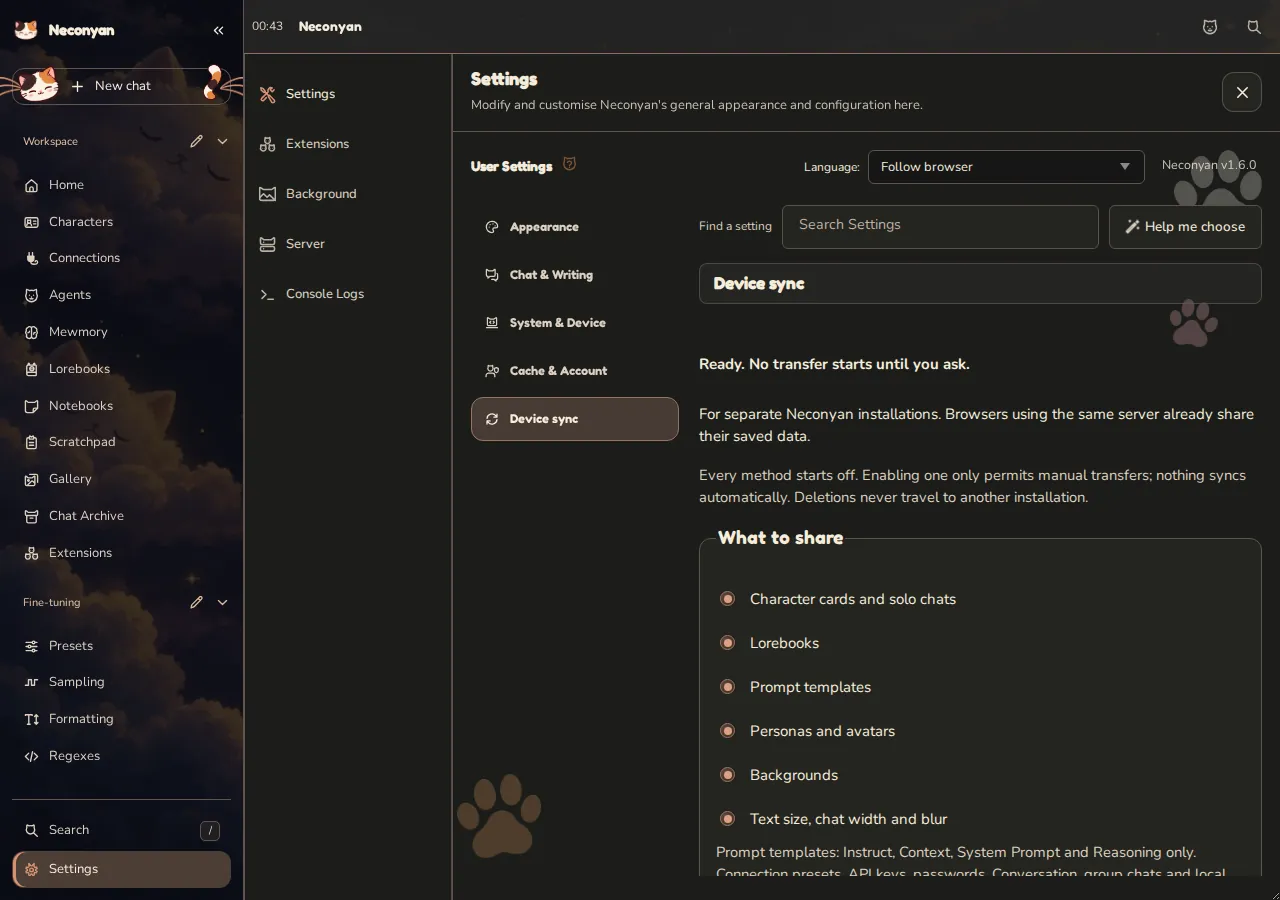
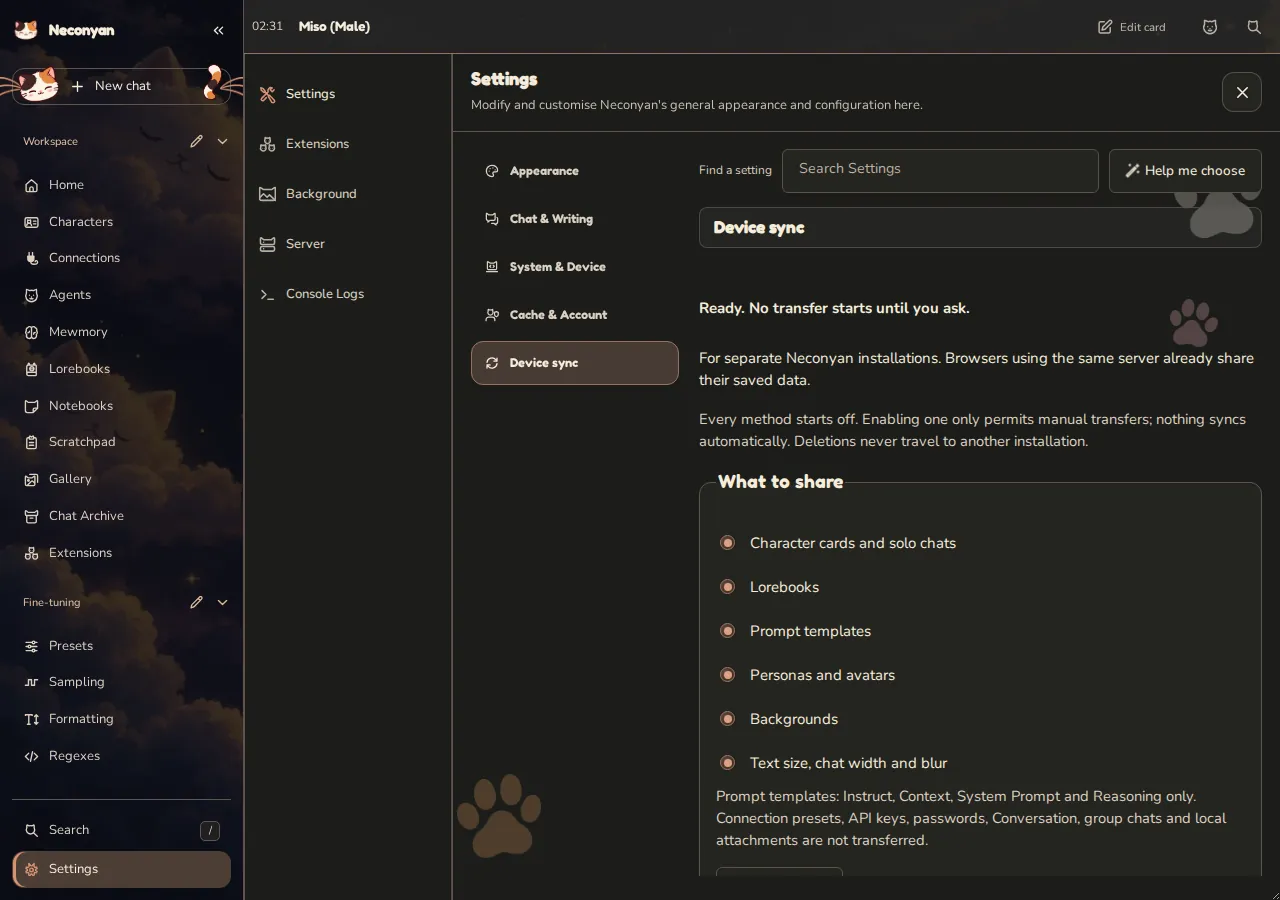
docs: retake the 1.6.0 screenshots that had cut or covered parts
The Simple Mode chat and Author's Note shots now have a model connected, so the usual send button shows, and the phone Author's Note shows its whole Insertion Frequency row. Agents, Device sync, Scratchpad and the desktop Meower feed are framed so no control or text is cut or sits under a paw print. They're identical to the app README copies.

diff --git a/ASSETS.md b/ASSETS.md
@@ -4,9 +4,9 @@ The bundled artwork was copied from [Neconyan at 6e0269d0](https://github.com/pl
 
 ## Screenshots
 
-I captured these screenshots on 27 November 2026 from the `chore/release-1.6.0` branch of Neconyan. Its app code is identical to [Neconyan at 73555b9c](https://github.com/platberlitz/Neconyan/tree/73555b9c888a11d32519b179e56c860b89ec6cff), the 1.6.0 staging candidate; the branch only changes documentation, help text and tests. Home, Roleplay, Catelier, Conversation, Meower, Story Mode, Notebooks, Scratchpad, Agents, Proofreader, Device sync and three Simple Mode views each have a desktop and phone image. There's also a phone shot of the open workspace menu. The app README uses identical copies, plus three Simple Mode images the handbook doesn't show (`desktop-simple-ask.webp`, `phone-simple-ask.webp` and `phone-simple-menu.webp`).
+I captured these screenshots on 27 November 2026 from the `chore/release-1.6.0` branch of Neconyan. Its app code matched [Neconyan at 73555b9c](https://github.com/platberlitz/Neconyan/tree/73555b9c888a11d32519b179e56c860b89ec6cff), the 1.6.0 staging candidate, when I took the first set. Later that day I retook the Simple Mode chat and Author's Note, Agents, Device sync, Scratchpad and desktop Meower images from the same branch after it gained a Conversation save fix, which doesn't change how any of these screens look. The retakes show controls that the first set had cut off or covered. Home, Roleplay, Catelier, Conversation, Meower, Story Mode, Notebooks, Scratchpad, Agents, Proofreader, Device sync and three Simple Mode views each have a desktop and phone image. There's also a phone shot of the open workspace menu. The app README uses identical copies, plus three Simple Mode images the handbook doesn't show (`desktop-simple-ask.webp`, `phone-simple-ask.webp` and `phone-simple-menu.webp`).
 
-The captures use a disposable data root with demonstration data only: Calico Dark with its default accent and the default accent profiles, **Panel opacity** at 100%, the bundled Miso, Taro and Nori cards, and staged chats, posts, notes, a character dossier and a Scratchpad round table. No personal account data was used, and no model was connected, so the composer shows **Connect**. The Proofreader example runs the real Agent workflow against a small local test service that returns a fixed sample response through a connection profile called 'Demonstration response'. I switched that Agent off again before the other captures. No external model requests were made.
+The captures use a disposable data root with demonstration data only: Calico Dark with its default accent and the default accent profiles, **Panel opacity** at 100%, the bundled Miso, Taro and Nori cards, and staged chats, posts, notes, a character dossier and a Scratchpad round table. No personal account data was used. The Simple Mode chat and Author's Note images are connected to a small local test service with a model called 'demo', so the composer shows its usual send button; the other views have no model connected, so their composer shows **Connect**. The Proofreader example runs the real Agent workflow against a small local test service that returns a fixed sample response through a connection profile called 'Demonstration response'. I switched that Agent off again before the other captures. No external model requests were made.
 
 I used Playwright with Chromium at 1280×900 for desktop with a pixel ratio of 1, and 393×852 with touch emulation for phone at a pixel ratio of 1.5, with reduced motion on. The saved images are 1280×900 and 590×1278 pixels. These are browser viewport captures, not physical-phone or Safari verification. I converted them to WebP at quality 80, method 6, without resizing or compositing interface elements.
 

diff --git a/docs/help/about.md b/docs/help/about.md
@@ -33,7 +33,7 @@ The practical guides focus on common tasks and link to longer references when yo
 
 ## Screenshots and artwork
 
-I retook every workspace screenshot on a computer and a phone viewport on 27 November 2026 from the 1.6.0 release branch, whose app code matches [Neconyan at 73555b9c](https://github.com/platberlitz/Neconyan/tree/73555b9c888a11d32519b179e56c860b89ec6cff). I used the default Calico Dark colours, opaque panels and demonstration chats, notes and posts with the bundled assistants. The Proofreader example runs the real edit-history workflow with a fixed sample response from a local test service, not a live model conversation.
+I retook every workspace screenshot on a computer and a phone viewport on 27 November 2026 from the 1.6.0 release branch, whose app code matched [Neconyan at 73555b9c](https://github.com/platberlitz/Neconyan/tree/73555b9c888a11d32519b179e56c860b89ec6cff) apart from a later Conversation save fix that doesn't change how these screens look. I used the default Calico Dark colours, opaque panels and demonstration chats, notes and posts with the bundled assistants. The Proofreader example runs the real edit-history workflow with a fixed sample response from a local test service, not a live model conversation.
 
 Miso, Taro and Nori use Neconyan's existing assistant artwork, with male, female and neutral variants. Their handbook dialogue is written guidance, not a live model conversation. Gender preferences stay in the browser when storage is available.
 

diff --git a/README.md b/README.md
@@ -43,7 +43,7 @@ Avoid repeated 'same X' phrasing and three-item lists written for rhythm. Keep a
 
 Use demonstration data for screenshots. Desktop captures are 1280×900 and phone captures are 393×852. Keep verification captures in `screenshots/`; that directory is ignored. Images published in the handbook belong in `docs/assets/images/screenshots/`.
 
-I retook every workspace screenshot on 27 November 2026 from the Neconyan 1.6.0 release branch, whose app code matches `73555b9c`, using the default Calico Dark accent and opaque panels. The app README uses identical copies of these images. Capture sources and the demonstration data are in [ASSETS.md](ASSETS.md). When replacing screenshots, update that record and check the affected guides and screenshot zoom at both widths.
+I retook every workspace screenshot on 27 November 2026 from the Neconyan 1.6.0 release branch, whose app code matched `73555b9c` apart from a later Conversation save fix that doesn't change these screens, using the default Calico Dark accent and opaque panels. The app README uses identical copies of these images. Capture sources and the demonstration data are in [ASSETS.md](ASSETS.md). When replacing screenshots, update that record and check the affected guides and screenshot zoom at both widths.
 
 ## Update the macro reference
 
